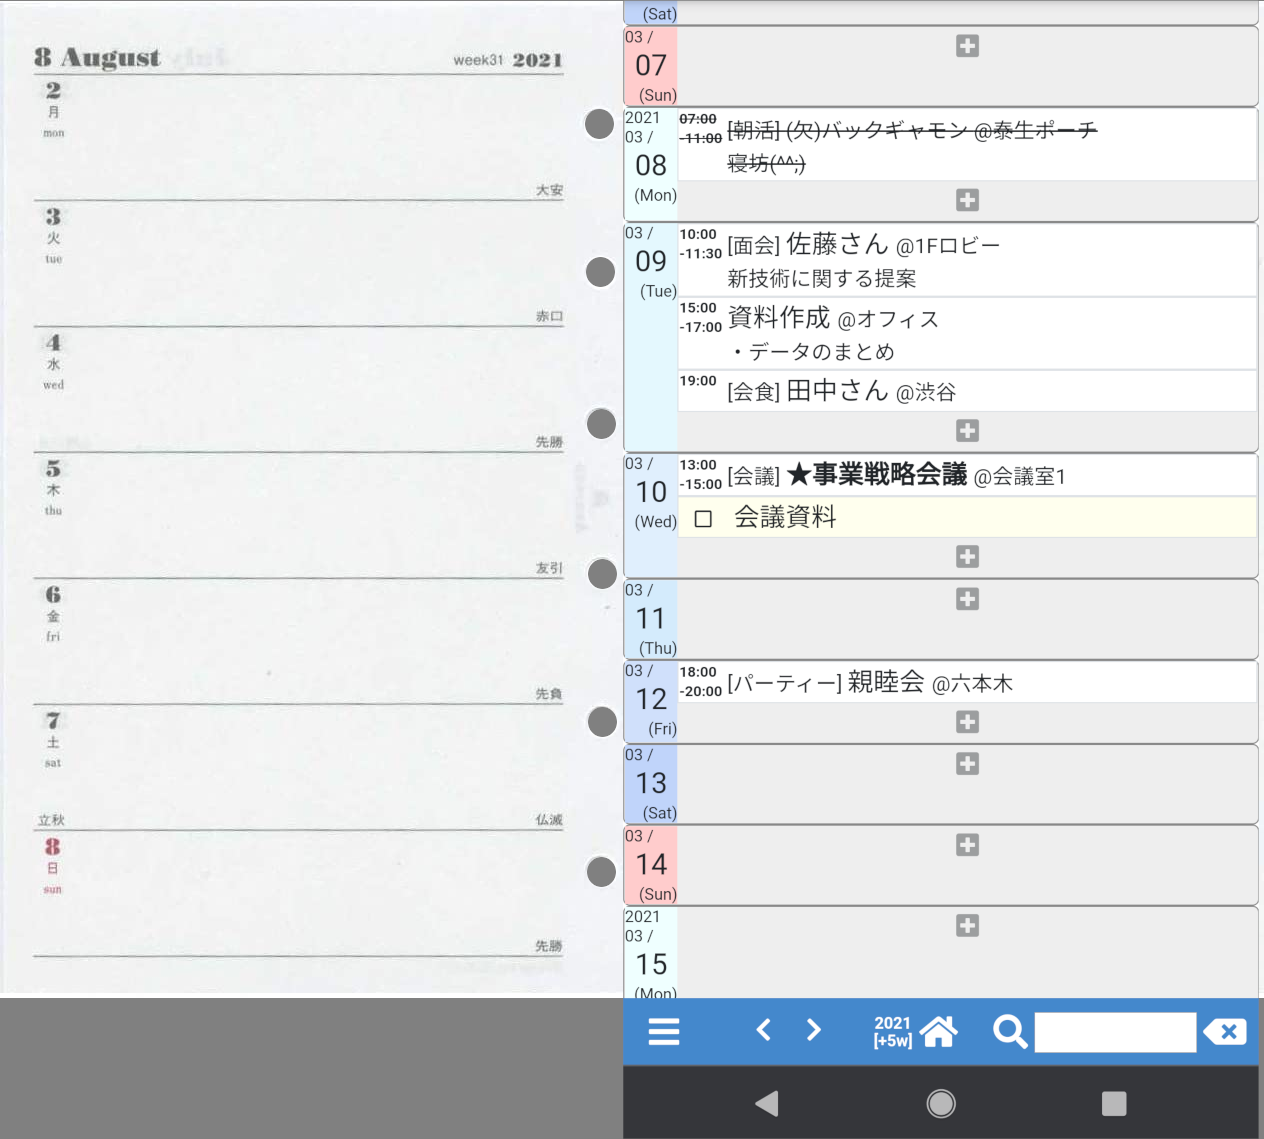
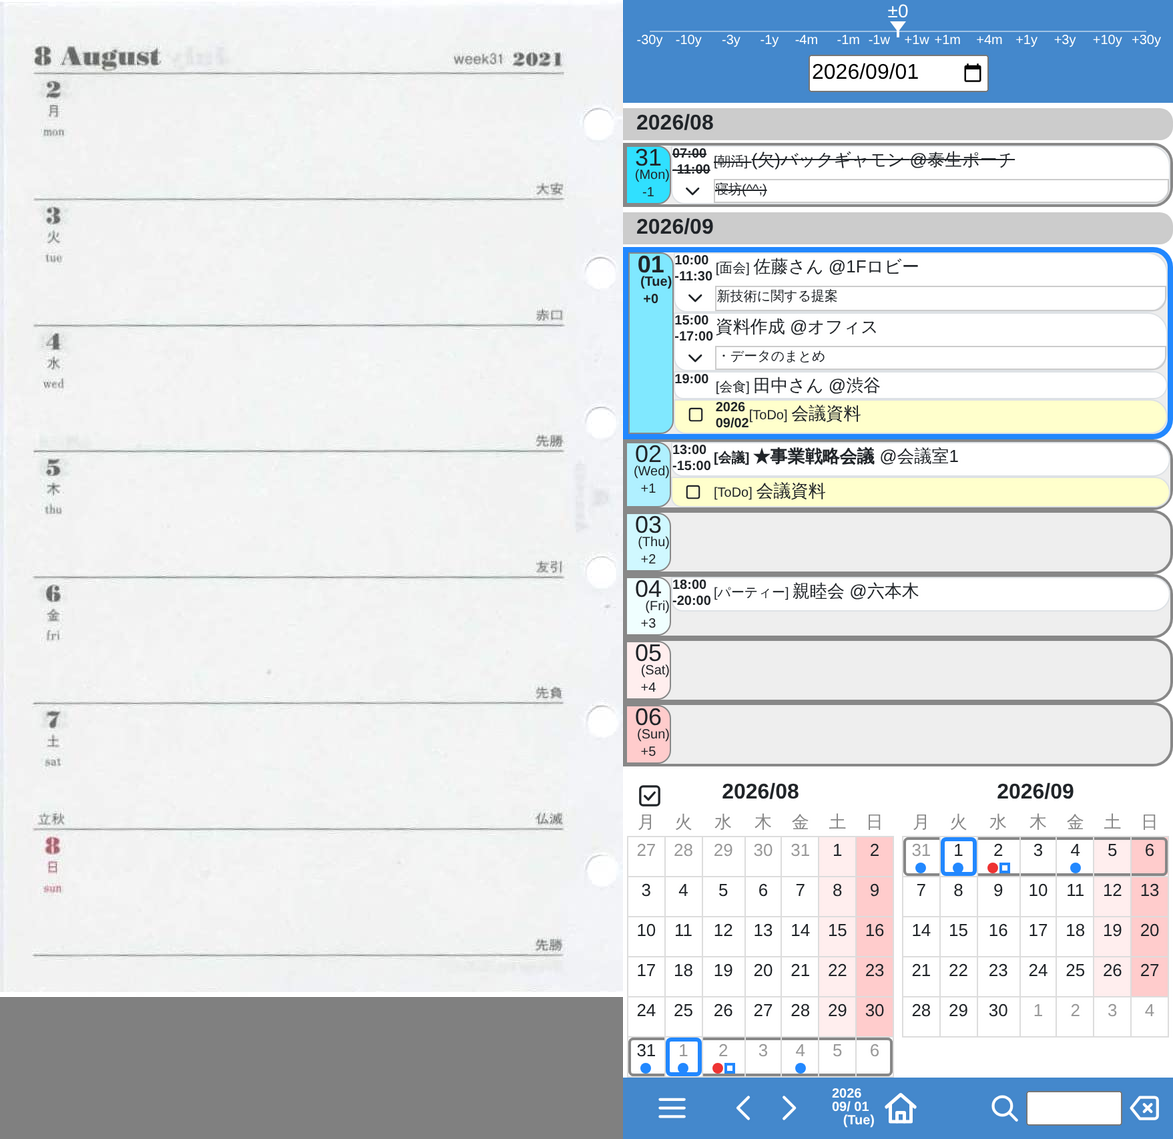
docs(readme): トップ画像の右半分を最新版の画面にする（TODO-151）
`tools/screenshot.py` に `--scale`（デバイスピクセル比）を足し、
2 倍で撮ってから縮小して合成した。

Claude-Session: https://claude.ai/code/session_01D9PVMeqzw9zsUGmyUTysGX

diff --git a/tools/screenshot.py b/tools/screenshot.py
@@ -69,6 +69,9 @@ DEF_CHROMIUM = "/usr/bin/chromium"
 #: ``--open`` で開くもの。詳細 (detail) の開閉スイッチ
 DEF_TOGGLE = "input.my-longtext-sw"
 
+#: 既定のデバイスピクセル比。1 なら幅の指定がそのまま画像の幅になる
+DEF_SCALE = 1.0
+
 
 def shoot(
     url: str,
@@ -80,11 +83,15 @@ def shoot(
     toggle: str,
     open_toggles: bool,
     full_page: bool,
+    scale: float = DEF_SCALE,
 ) -> list[pathlib.Path]:
     """画面を撮って、保存したファイルの一覧を返す。
 
     ``open_toggles`` が真なら、``toggle`` に当たるチェックボックスを
     すべて入れた状態も撮る。幅ごとに ``closed`` と ``open`` の 2 枚。
+
+    ``scale`` はデバイスピクセル比。レイアウトは ``widths`` のままで、
+    画像だけが ``scale`` 倍の大きさになる (TODO-151)。
     """
     from playwright.sync_api import sync_playwright
 
@@ -96,7 +103,8 @@ def shoot(
         try:
             for width in widths:
                 page = browser.new_page(
-                    viewport={"width": width, "height": height}
+                    viewport={"width": width, "height": height},
+                    device_scale_factor=scale,
                 )
                 response = page.goto(url, wait_until="networkidle")
                 status = response.status if response is not None else "?"
@@ -155,6 +163,15 @@ def parse_args(argv: list[str] | None = None) -> Any:
         type=int,
         default=DEF_HEIGHT,
         help=f"画面の高さ (px) (既定: {DEF_HEIGHT})",
+    )
+    _ = parser.add_argument(
+        "--scale",
+        type=float,
+        default=DEF_SCALE,
+        help=(
+            "デバイスピクセル比。レイアウトは変えずに画像だけ大きくする"
+            f" (既定: {DEF_SCALE})"
+        ),
     )
     _ = parser.add_argument(
         "-o",
@@ -224,6 +241,7 @@ def main(argv: list[str] | None = None) -> int:
             toggle=args.toggle,
             open_toggles=args.open_toggles,
             full_page=args.full_page,
+            scale=args.scale,
         )
     except ImportError as ex:
         print(

diff --git a/archives/todo/TODO-151. README のトップ画像の右半分を最新版の画面にする.md b/archives/todo/TODO-151. README のトップ画像の右半分を最新版の画面にする.md
@@ -1,0 +1,83 @@
+# TODO-151. README のトップ画像の右半分を最新版の画面にする
+
+|      | main | 担当 |
+|------|------|------|
+| 見込み | Opus 5 / effort high | main + verifier |
+| 実施 | Opus 5 / effort high | main + verifier |
+| 消費 | output 26,926 / cache_creation 92,818 / 概算 $3.9 |
+|      | main 95% + verifier 5%（料金の割合） |
+
+依頼と報告は `archives/agents/TODO-151/` にある。
+
+## きっかけ
+
+`docs/fig1.png`（README の先頭に貼っている図）は、左半分がシステム手帳の
+リフィルの写真、右半分がアプリの画面という作り。右半分が 2021 年当時の
+Android のキャプチャのままで、そのあとに入ったもの（月間ミニカレンダー、
+横向きのゲージ、月の境目の年月の見出し、フッターの作り）が写っていなかった。
+
+## やったこと
+
+### 撮り直し
+
+一時ディレクトリにサンプルデータを置き、`--datadir` を指定してアプリを
+起動して撮った。予定は旧画像と同じ内容（[面会] 佐藤さん、★事業戦略会議、
+ToDo の会議資料など）を、今日（2026-09-01 火）の週へ移して並べ直した。
+月曜が 08/31 になるので、月の境目の見出しも写る。
+
+```sh
+uv run python tools/screenshot.py -w 412 --height 853 --scale 2 -p today
+```
+
+**高さの 853 は、幅 412 のときの `document.body.scrollHeight` に合わせた。**
+これより低いと月間ミニカレンダーが下で切れ、これより高いと
+`main-page.js` の `body_h < win_h` の分岐に入って、画面の作りが変わる。
+
+### 合成
+
+左半分は `docs/refill1.jpg` の左ページの切り出しで、旧画像と同じものを
+そのまま使った。切り出す位置と、写真の下を埋める灰色
+（`rgb(128,128,128)`）は、旧 `docs/fig1.png` から測って合わせた。
+
+```sh
+convert <shot>.png -resize 550x1139! right.png
+convert docs/refill1.jpg -crop 623x997+0+0 +repage left.png
+convert -size 1173x1139 xc:'rgb(128,128,128)' \
+  left.png  -geometry +0+0   -composite \
+  right.png -geometry +623+0 -composite \
+  docs/fig1.png
+```
+
+大きさは 1264x1139 から 1173x1139 になった。画面の縦横比が変わった
+（旧キャプチャは 1080x1934、今回は 412x853）ぶん、右半分が少し細くなる。
+
+合成は数行で済むので、スクリプトは置かず、手順をここに残した。
+
+### `tools/screenshot.py` の `--scale`
+
+デバイスピクセル比を渡せるようにした。レイアウトは `-w` の幅のままで、
+画像だけが指定の倍率になる。旧キャプチャ（1080 幅）と並べても粗く
+見えないように、2 倍で撮ってから縮小した。既定は 1 なので、これまでの
+呼び方では大きさは変わらない。
+
+`docs/Developer.md` の「画面を撮る」に説明を足した。
+
+### `docs/sample1.png`
+
+合成の材料（右半分の元のキャプチャ）。新しく撮ったものに差し替えた
+（1080x1934 → 824x1706）。README からは参照していない。
+
+## テスト
+
+verifier に確認させた（`archives/agents/TODO-151/verifier-report.md`）。
+
+- `mise run lint`（ruff format / ruff check / basedpyright / mypy）… 問題なし
+- `uv run pytest` … 597 件通過
+- `docs/fig1.png` `docs/sample1.png` が PNG として壊れていないこと
+- `README.md` からの参照が切れていないこと
+- `docs/fig1.png` の右半分に、ゲージ・日付入力欄・月の境目の見出し・
+  月間ミニカレンダー 2 か月分・フッターが、切れずに写っていること
+- 左半分が `docs/refill1.jpg` の左ページと一致すること
+- `--scale` を付けないときの画像の大きさが、これまでと同じであること。
+  `--scale 2` で縦横とも 2 倍になり、レイアウトは変わらないこと
+- 実データ（`~/ytsched/data`）に触れていないこと

diff --git a/archives/agents/TODO-151/verifier-request.md b/archives/agents/TODO-151/verifier-request.md
@@ -1,0 +1,81 @@
+# TODO-151 verifier への依頼
+
+## 目的
+
+README のトップ画像 `docs/fig1.png` の右半分を、最新版の画面に差し替えた。
+その結果が壊れていないかを確かめる。
+
+## 変更したもの
+
+- `docs/fig1.png` — 作り直した（1264x1139 → 1173x1139）
+- `docs/sample1.png` — 合成の材料。新しい画面キャプチャに差し替えた
+  （1080x1934 → 824x1706）
+- `tools/screenshot.py` — `--scale`（デバイスピクセル比）を足した
+- `docs/Developer.md` — `--scale` の説明を足した
+
+`docs/refill1.jpg`（リフィルの写真）は変えていない。
+
+## 作った手順
+
+1. 一時ディレクトリにサンプルデータを置く（下記）
+2. `uv run ytsched webapp --datadir <一時ディレクトリ> --port 10085`
+3. `uv run python tools/screenshot.py -w 412 --height 853 --scale 2 -p today -o <出力先>`
+4. 合成（`convert`）
+
+```sh
+convert <shot>.png -resize 550x1139! right.png
+convert docs/refill1.jpg -crop 623x997+0+0 +repage left.png
+convert -size 1173x1139 xc:'rgb(128,128,128)' \
+  left.png  -geometry +0+0   -composite \
+  right.png -geometry +623+0 -composite \
+  docs/fig1.png
+```
+
+高さ 853 は、幅 412 のときの `document.body.scrollHeight` に合わせた値。
+これより低いと月間ミニカレンダーが切れ、これより高いと
+`main-page.js` の `body_h < win_h` の分岐に入る。
+
+サンプルデータ（旧 `docs/sample1.png` の内容を今日 2026-09-01 の週へ移したもの）:
+
+```
+2026/08/31.jsonl : 07:00-11:00 [朝活] (欠)バックギャモン @泰生ポーチ / 寝坊(^^;)
+2026/09/01.jsonl : 10:00-11:30 [面会] 佐藤さん @1Fロビー / 新技術に関する提案
+                   15:00-17:00 資料作成 @オフィス / ・データのまとめ
+                   19:00       [会食] 田中さん @渋谷
+2026/09/02.jsonl : 13:00-15:00 [会議] ★事業戦略会議 @会議室1
+2026/09/04.jsonl : 18:00-20:00 [パーティー] 親睦会 @六本木
+ToDo.jsonl       : 2026-09-02 □ToDo 会議資料
+```
+
+## 確かめること
+
+1. `mise run lint`（ruff format / ruff check / basedpyright / mypy）と
+   `uv run pytest` が通ること
+2. `docs/fig1.png` `docs/sample1.png` が PNG として壊れていないこと
+   （`identify` / `convert ... info:` が通る）
+3. `README.md` からの参照（`![](docs/fig1.png)`）が切れていないこと。
+   リポジトリ内から `docs/sample1.png` `docs/refill1.jpg` を参照している
+   箇所があれば、それも切れていないこと
+4. `docs/fig1.png` の右半分に、旧画像に無かった今の要素が写っていること。
+   画像を読んで確かめる:
+   - 上部の横向きゲージ（`-30y … ±0 … +30y`）
+   - ヘッダーの日付入力欄（`2026/09/01`）
+   - 月の境目の年月の見出し行（`2026/08` と `2026/09`）
+   - 月間ミニカレンダーが 2 か月分、切れずに入っていること
+   - フッター（メニュー・◀▶・ホーム・検索欄）
+5. 左半分がリフィルの写真のままで、`docs/refill1.jpg` の左ページと
+   一致すること（`compare` などで見てよい）
+6. `tools/screenshot.py` の `--scale`:
+   - `--help` に出ること
+   - `--scale` を付けないときの画像の大きさが、これまでと同じ
+     （`-w 412 --height 900` なら 412x900）
+   - `--scale 2` で 824x1800 になり、レイアウトは変わらないこと
+     （縮小して並べれば、ほぼ同じに見えるはず）
+7. 実データ（`~/ytsched/data`）に触れていないこと。
+   **アプリを起動するときは `--datadir` に必ず一時ディレクトリを指定する。**
+
+## 報告
+
+`archives/agents/TODO-151/verifier-report.md` に書く。
+**コードや画像は直さないこと。** 見つけたことは報告だけする。
+返事は 5 行以内（終わったか・報告ファイルのパス・判断が要る点）。

diff --git a/TODO.md b/TODO.md
@@ -1,45 +1,10 @@
 # TODO
 
-**残っている項目: TODO-151。** これまでに 150 件を決着させた。
+**残っている項目は無い。** これまでに 151 件を決着させた。
 新しく足すときは「完了済み」の上に節を作る。
 **番号は `TODO-152` から**。
 
 着手する項目は利用者が指定する。**並び順に優先度の意味は無い。**
-
----
-
-## TODO-151. README のトップ画像の右半分を最新版の画面にする
-
-|      | main | 担当 |
-|------|------|------|
-| 見込み | Opus 5 / effort high | main + verifier |
-
-- [ ] 旧画像と同じサンプル予定を、今日の週に合わせて一時ディレクトリへ作る
-- [ ] 週間表示＋ミニカレンダーの画面を `mise run shot` で撮る
-- [ ] `docs/refill1.jpg` の左ページと合成して `docs/fig1.png` を作り直す
-- [ ] `docs/sample1.png`（合成の材料）も新しいキャプチャに差し替える
-
-`docs/fig1.png`（1264×1139）は、左半分が `docs/refill1.jpg`（システム手帳の
-リフィルの写真）の左ページ、右半分が `docs/sample1.png`（2021 年の Android の
-キャプチャ 1080×1934）を縮小したもの。右半分が 2021 年当時の画面のままで、
-ミニカレンダー・ゲージ・月の境目の見出し・フッターのゴミ箱など、その後に
-入ったものが写っていない。
-
-決めたこと:
-
-- 右半分は週間表示＋ミニカレンダー、日付は今日（2026-09）の週、予定は
-  旧画像と同じ内容（[面会] 佐藤さん、★事業戦略会議、会議資料の ToDo など）を
-  今日の週へ移して再現する
-- 左半分（リフィルの写真）はそのまま
-- 合成は `convert` の数行で済むので、スクリプトは置かず、手順を archives に残す
-
-verifier に確かめさせること:
-
-- 新しい `docs/fig1.png` が PNG として壊れていないこと、README から参照が
-  切れていないこと
-- 右半分に、旧画像に無い今の要素（ミニカレンダー、ゲージ、ゴミ箱アイコン）が
-  写っていること
-- 実データ（`~/ytsched/data`）に触れていないこと
 
 ---
 
@@ -48,6 +13,7 @@ verifier に確かめさせること:
  1 項目 1 ファイル。`archives/todo/` にある（新しい順）。
 **やらないと決めたものの理由もそこにある。** 蒸し返す前に読むこと。
 
+- [**TODO-151.** README のトップ画像の右半分を最新版の画面にする](archives/todo/TODO-151.%20README%20のトップ画像の右半分を最新版の画面にする.md)
 - [**TODO-150.** ゴミ箱を表示すると、スピナーが回りっぱなしになる](archives/todo/TODO-150.%20ゴミ箱を表示すると、スピナーが回りっぱなしになる.md)
 - [**TODO-149.** ゴミ箱の日付を押したら、その週の週間表示へ移る](archives/todo/TODO-149.%20ゴミ箱の日付を押したら、その週の週間表示へ移る.md)
 - [**TODO-148.** ゴミ箱の予定を、検索結果と同じ見た目にする](archives/todo/TODO-148.%20ゴミ箱の予定を、検索結果と同じ見た目にする.md)

diff --git a/archives/agents/TODO-151/verifier-report.md b/archives/agents/TODO-151/verifier-report.md
@@ -1,0 +1,60 @@
+# TODO-151 verifier 報告
+
+## 1. lint / pytest
+
+- `mise run lint` — 通った（ruff format / ruff check / basedpyright / mypy / eslint / prettier いずれも問題なし）
+- `uv run pytest` — 597 passed（157.24s）
+
+## 2. PNG の健全性
+
+```
+identify docs/fig1.png docs/sample1.png docs/refill1.jpg
+docs/fig1.png     PNG  1173x1139
+docs/sample1.png  PNG  824x1706
+docs/refill1.jpg  JPEG 1264x997
+```
+壊れずに読める。サイズは依頼記載の値と一致。
+
+## 3. 参照切れ
+
+- `README.md:3` の `![](docs/fig1.png)` — 健在
+- `docs/sample1.png` `docs/refill1.jpg` を参照している箇所は
+  リポジトリ内に無かった（`TODO.md` 中の記述は TODO-151 自体の
+  タスク説明であり、画像参照ではない）
+
+## 4. fig1.png 右半分の内容（画像を目視）
+
+以下すべて確認できた。
+- 上部の横向きゲージ（`-30y … ±0 … +30y`）
+- ヘッダーの日付入力欄（`2026/09/01`）
+- 月の境目の見出し（`2026/08` `2026/09`）
+- 月間ミニカレンダー 2 か月分、切れずに表示
+- フッター（メニュー・◀▶・ホーム・検索欄）
+
+## 5. fig1.png 左半分と refill1.jpg
+
+画像を並べて目視。`refill1.jpg` の左ページ（8/2〜8/8）と一致している。
+
+## 6. `tools/screenshot.py --scale`
+
+- `--help` に `--scale SCALE  デバイスピクセル比...(既定: 1.0)` と出る
+- `-w 412 --height 900`（`--scale` 無し）→ 412x900（期待通り）
+- `-w 412 --height 900 --scale 2` → 824x1800（期待通り）
+- `scale2` 画像を 412x900 へ縮小して `noscale` と比較。
+  `compare -metric AE` で差分 107262px（全 370800px 中）出たが、
+  差分画像・両画像を目視した結果、レイアウトは同一で文字のアンチエイリアス
+  由来の差と判断（構造的なズレなし）
+
+## 7. 実データ
+
+`--datadir` に一時ディレクトリ
+（`/tmp/claude-649/.../scratchpad/ytsched-data`）を指定して起動。
+`~/ytsched/data` には触れていない。起動したプロセスはすべて kill 済み。
+
+## 気づいた点（既知でなければ報告）
+
+用意したサンプルデータの JSON Lines が実際のスキーマ（`date` フィールド等）
+と合っておらず、`load_line()` で「invalid .. ignored」の警告が出た
+（依頼の確認項目には含まれないため、そのまま進めた）。画像の内容確認
+（4・5）自体はリポジトリの `docs/fig1.png` を直接読んで行ったので、
+このサンプルデータの不備は結果に影響していない。

diff --git a/archives/agents/TODO-151/README.md b/archives/agents/TODO-151/README.md
@@ -1,0 +1,19 @@
+# TODO-151 の分担
+
+項目は
+[TODO-151. README のトップ画像の右半分を最新版の画面にする](../../todo/TODO-151.%20README%20のトップ画像の右半分を最新版の画面にする.md)。
+
+| 担当 | やったこと |
+|------|------------|
+| main | サンプルデータの用意、画面の撮り直し、合成、`--scale` の追加、文書 |
+| verifier | [verifier-report.md](verifier-report.md) |
+
+## この分担にした理由
+
+画像を作る作業そのものは一続きで、途中で受け渡すところが無いので main が
+やった。ただし**作った本人には、画像が期待どおりかを見きれない**
+（撮ったものをそのまま「これでよい」と見てしまう）。切れていないか、
+参照が生きているか、`--scale` を付けないときの振る舞いが変わっていないかは、
+別の担当に見させた。
+
+依頼は [verifier-request.md](verifier-request.md)。

diff --git a/docs/Developer.md b/docs/Developer.md
@@ -157,6 +157,10 @@ mise run shot -- --open -p todo046
 のような開閉するものを開いた状態も撮る（開くものは `--toggle` で指定。
 既定は `input.my-longtext-sw`）。
 
+`--scale` にデバイスピクセル比を渡すと、レイアウトは `-w` の幅のまま、
+画像だけが指定の倍率で大きくなる（TODO-151）。文書へ貼る図を作るときに
+使う。
+
 - 撮る URL は既定で `http://localhost:10085/ytsched/`。`--urlprefix` の
   既定（`/ytsched`）に合わせてある。一覧は `/` にも割り当ててあるので
   どちらでも出るが、編集画面は前置きが無いと 404 になる。位置引数で
